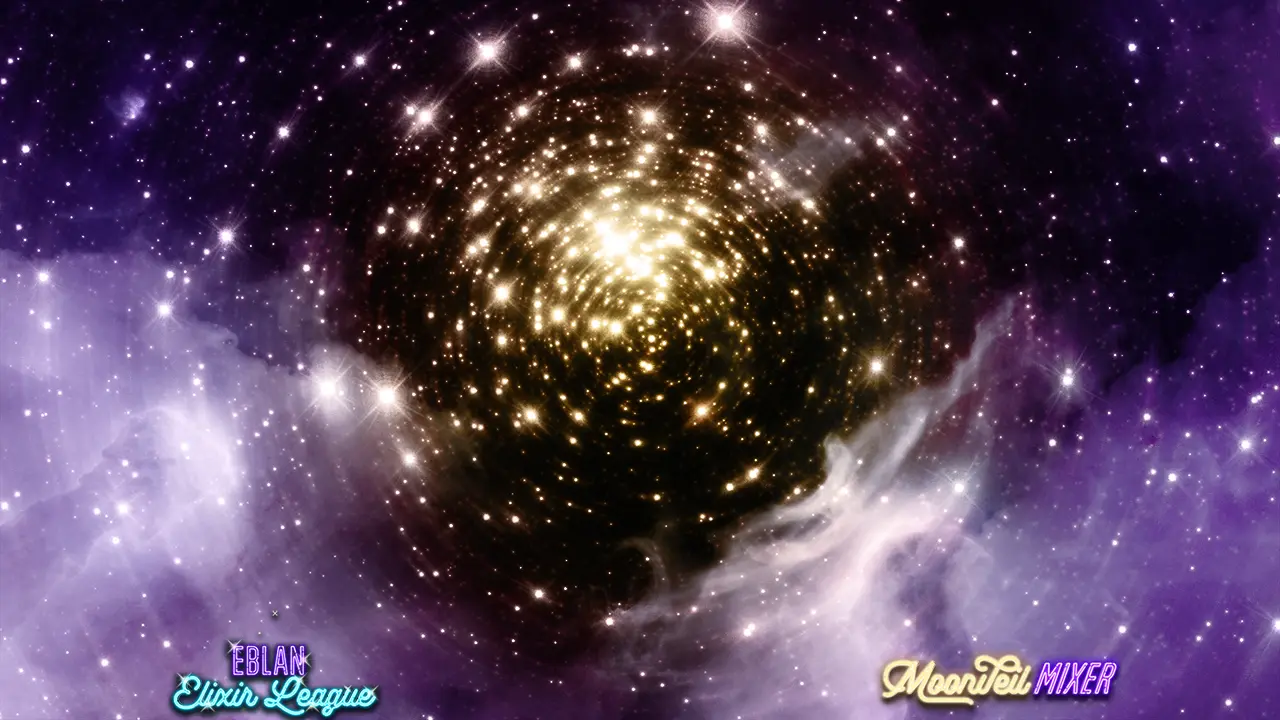
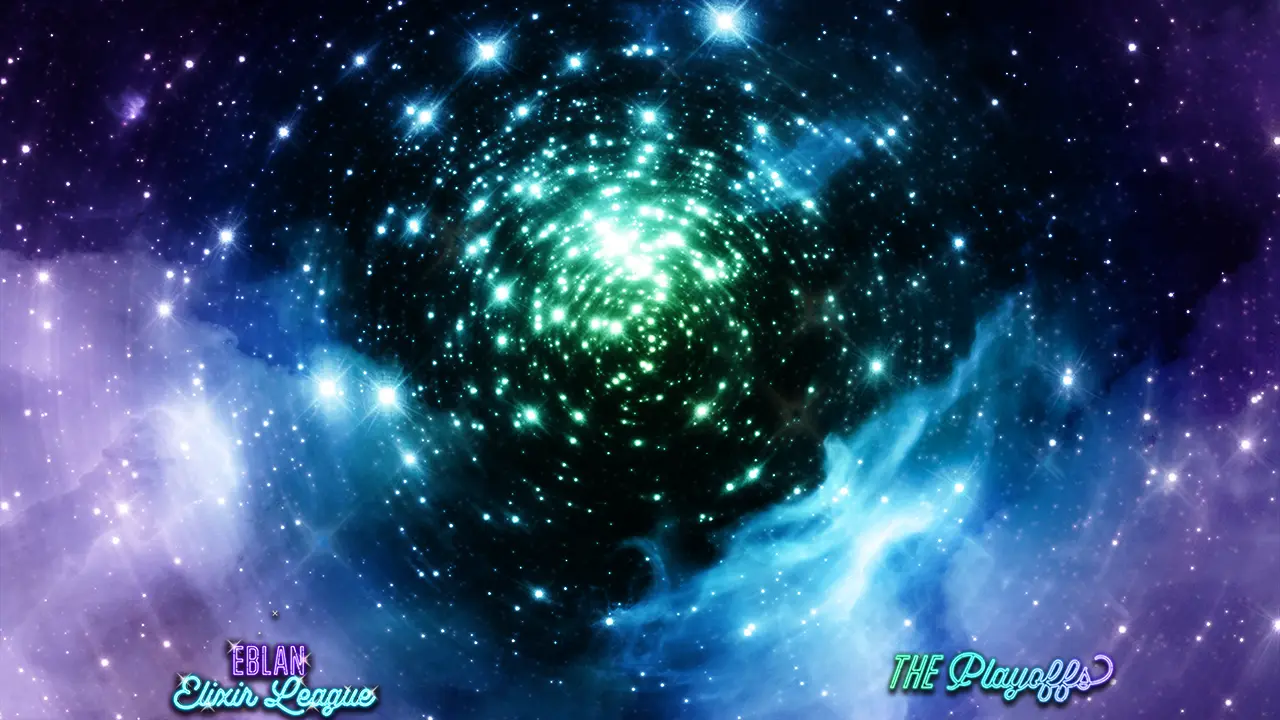
Update ff4fe eblan

diff --git a/public/ff4fe/eblan4p.css b/public/ff4fe/eblan4p.css
@@ -46,7 +46,7 @@
 .background-1{background-color: var(--backgroundColor1);}
 .background-2{background-color: var(--backgroundColor2);}
 
-[player="1"] .background-1, [player="2"] .background-1{ background-color: #998202;}
+[player="1"] .background-1, [player="2"] .background-1{ background-color: #0A9BC5;}
 [player="3"] .background-1, [player="4"] .background-1{ background-color: #422071;}
 
 .abs{position: absolute;}
